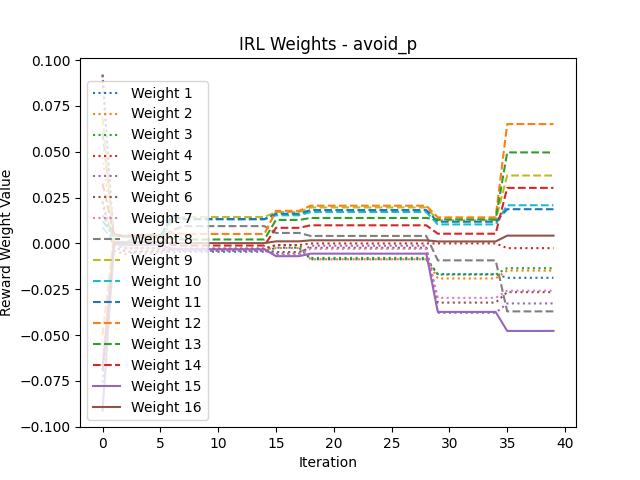
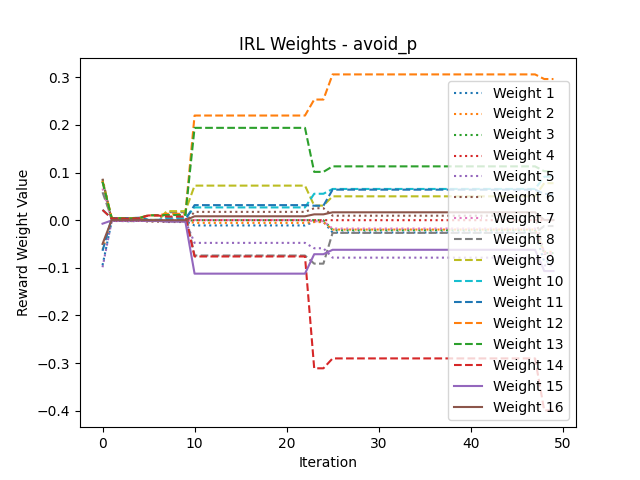
new results

diff --git a/irl.py b/irl.py
@@ -96,7 +96,7 @@ def q_learning(episodes: int, dw: DroneWorld, w):
     gamma = 0.99
     epsilon = 0.5
     edf = 0.98  # Epsilon Decay Factor
-    #alpha = 0.1
+    alpha = 0.5
 
     # Create Neural network
     nn = Sequential()
@@ -139,8 +139,8 @@ def q_learning(episodes: int, dw: DroneWorld, w):
         # Update environment by one step
         dw.move_drone_by_action(a)
         max_next_state = max(nn.predict(np.expand_dims(dw.state_features, axis=0), verbose=None)[0])
-        # target = q_old + alpha * (reward + (gamma * max_next_state) - q_old)
-        target = reward + (gamma * max_next_state) - q_old
+        target = q_old + alpha * (reward + (gamma * max_next_state) - q_old)
+        # target = reward + (gamma * max_next_state) - q_old
         # Update Q(s' ,a') with new target value
         q_values_old[action] = target
         # Backpropagation of weights inside the Neural Network

diff --git a/ex_1.py b/ex_1.py
@@ -13,7 +13,7 @@ training_policies = [
 
 n_traj = 20
 n_steps = 250
-irl_iterations = 100
+irl_iterations = 50
 show_log = True
 generate_new_traj = True
 
